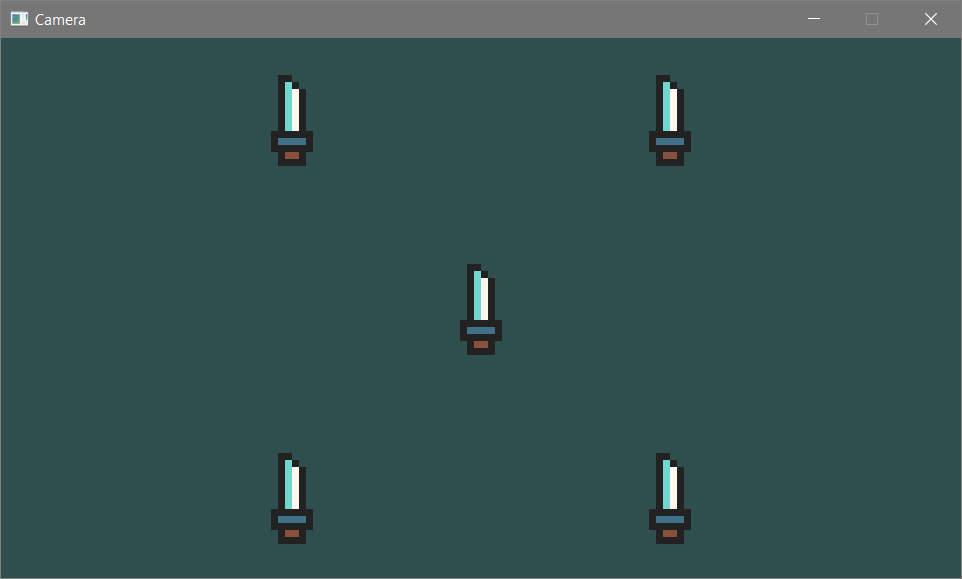
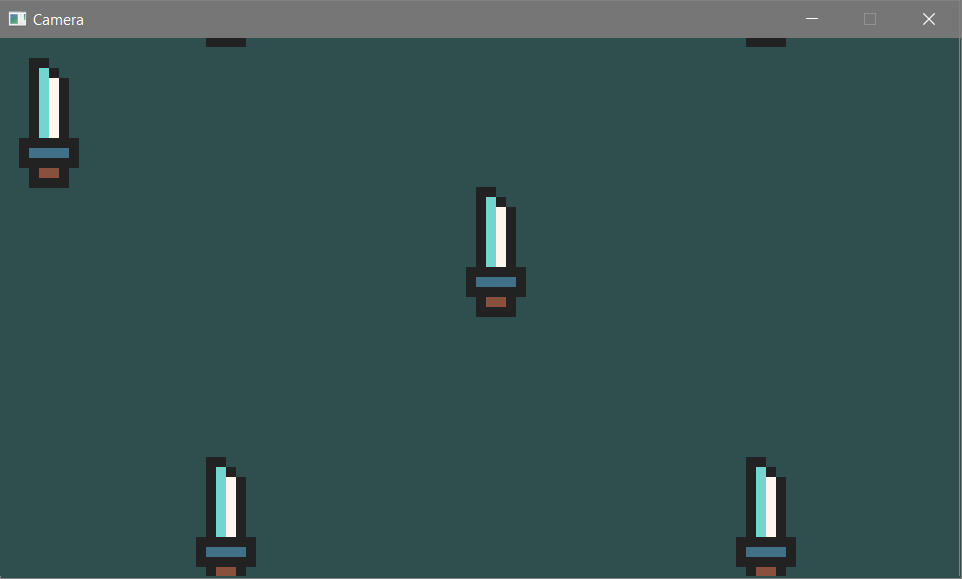
implemented line3d

diff --git a/viva5/viva_impl.h b/viva5/viva_impl.h
@@ -263,6 +263,23 @@ namespace vi::math
         assert(false);
         return 0;
     }
+
+    float calcAngle(float P1X, float P1Y, float P2X, float P2Y,
+        float P3X, float P3Y) {
+
+        float numerator = P2Y * (P1X - P3X) + P1Y * (P3X - P2X) + P3Y * (P2X - P1X);
+        float denominator = (P2X - P1X) * (P1X - P3X) + (P2Y - P1Y) * (P1Y - P3Y);
+        float ratio = numerator / denominator;
+
+        float angleRad = atanf(ratio);
+        float angleDeg = (angleRad * 180) / PI;
+
+        if (angleDeg < 0) {
+            angleDeg = 180 + angleDeg;
+        }
+
+        return angleDeg;
+    }
 }
 
 namespace vi::system
@@ -499,7 +516,7 @@ float4 main(VS_OUTPUT input) : SV_TARGET
     {
         discard;
         return float4(0,0,0,0);
-    }
+}
     else if(notexture)
     {
         return float4(input.Col.rgba);
@@ -693,7 +710,11 @@ struct VS_OUTPUT
     uint4 data: COLOR2;
 };
 
-float4x4 calcWorldViewProj()
+float4x4 calcWorldViewProj(bool transform)
+{
+    float4x4 worldMat = {1,0,0,0, 0,1,0,0, 0,0,1,1, 0,0,0,1};
+
+    if(transform)
 {
     float cr = cos(w.q1 * 0.5);
     float sr = sin(w.q1 * 0.5);
@@ -726,7 +747,8 @@ float4x4 calcWorldViewProj()
         0,0,0,1
     };
 
-    float4x4 worldMat = mul(locMat, mul(rotMat, scaleMat));
+    worldMat = mul(locMat, mul(rotMat, scaleMat));
+}
     
     float3 eye = {v.eyex, v.eyey, v.eyez};
     float3 at = {v.atx,v.aty,v.atz};
@@ -754,12 +776,27 @@ float4x4 calcWorldViewProj()
     return worldViewProj;
 }
 
-VS_OUTPUT main(VertexInputType data)
-{    
+VS_OUTPUT main(VertexInputType data, uint vid : SV_VertexID)
+{
 	float4 pos = float4(data.pos.x,data.pos.y,data.pos.z,1.0f);
 
 	VS_OUTPUT output;
-    
+
+if(w.data == 16)
+{
+if(vid == 0)
+            pos = float4(w.x,w.y,w.z,1.0f);
+        if(vid == 1)
+            pos = float4(w.q1,w.q2,w.q3,1.0f);
+        if(vid == 2)
+            pos = float4(w.sx,w.sy,w.sz,1.0f);
+        output.Pos = mul(calcWorldViewProj(false),pos);
+        output.Col = float4(w.color.r,w.color.g,w.color.b,1);
+	    output.TexCoord = float2(0,0);
+output.data = uint4(w.data,0,0,0);
+return output;
+}   
+
     if(w.data & 4)
     {
 	    output.Pos = mul(transform,pos);
@@ -774,7 +811,7 @@ VS_OUTPUT main(VertexInputType data)
     }        
     else
     {
-        output.Pos = mul(calcWorldViewProj(),pos);
+        output.Pos = mul(calcWorldViewProj(true),pos);
     }
 
 	output.Col = w.color;
@@ -953,6 +990,71 @@ VS_OUTPUT main(VertexInputType data)
             this->s2.scale = { 1,1 };
             this->s2.uv1 = { 0,0,1,1 };
         }
+    };
+
+    // TODO, this should replace sprite
+    _declspec(align(16))
+        union spriten
+    {
+        struct
+        {
+            vector3 pos;
+            vector2 scale;
+            float rot;
+            vector2 origin;
+            uv uv1;
+            color col;
+            uint flags;
+            texture* t;
+        };
+        struct
+        {
+            float x;
+            float y;
+            float z;
+            // scale x
+            float sx;
+
+            // 16 byte
+
+            // scale y
+            float sy;
+            // angle
+            float rot;
+            // origin x
+            float ox;
+            // origin y
+            float oy;
+
+            // 16 byte
+
+            // uv left
+            float left;
+            // uv top
+            float top;
+            // uv right
+            float right;
+            // uv bottom
+            float bottom;
+
+            // 16 byte
+
+            float r;
+            float g;
+            float b;
+            float a;
+
+            // 16 byte
+            // some extra settings
+            uint nodraw : 1;
+            /// <summary>
+            /// no need to set manually, set to true if no texture on sprite
+            /// </summary>
+            uint notexture : 1;
+            uint padding : 30;
+
+            texture* t;
+        };
     };
 
     struct dynamic
@@ -1219,6 +1321,21 @@ VS_OUTPUT main(VertexInputType data)
         color color;
     };
 
+    _declspec(align(16))
+    struct line3d
+    {
+        vector3 p1;
+        float pad1;
+
+        vector3 p2;
+        float pad2;
+
+        float pad3[3];
+        uint data;
+
+        color color;
+    };
+
     struct mesh
     {
         vertex* v;
@@ -1238,10 +1355,13 @@ VS_OUTPUT main(VertexInputType data)
 
         vector3 pos;
         float pad1;
+
         vector3 rot;
         float pad2;
+
         vector3 sca;
         uint data;
+
         color color;
         uint pad3;
     };
@@ -1777,7 +1897,7 @@ VS_OUTPUT main(VertexInputType data)
             if (s->s1.t) this->context->PSSetShaderResources(0, 1, &s->s1.t->shaderResource);
             s->s1.notexture = !s->s1.t;
             this->context->UpdateSubresource(this->cbufferVS, 0, NULL, s, 0, 0);
-            this->context->UpdateSubresource(this->cbufferPS, 0, 0, &s->s2.flags, 0, 0);            
+            this->context->UpdateSubresource(this->cbufferPS, 0, 0, &s->s2.flags, 0, 0);
             this->context->Draw(6, 0);            
         }
 
@@ -1823,16 +1943,19 @@ VS_OUTPUT main(VertexInputType data)
                 this->context->VSSetConstantBuffers(2, 1, &this->transform);
             }
 
-            if (m->t)
+            if (m->t)            
                 this->context->PSSetShaderResources(0, 1, &m->t->shaderResource);
 
-            this->context->UpdateSubresource(this->world, 0, NULL, &m->pos, 0, 0);
+            int psdata[] = { !m->t,0,0,0 };
+            this->context->UpdateSubresource(this->cbufferPS, 0, 0, psdata, 0, 0);
 
             if (transform)
             {
                 m->data |= APPLY_TRANSFORM;
                 this->context->UpdateSubresource(this->transform, 0, NULL, transform, 0, 0);
             }
+
+            this->context->UpdateSubresource(this->world, 0, NULL, &m->pos, 0, 0);
 
             if (m->indexBuffer)
             {
@@ -1868,10 +1991,15 @@ VS_OUTPUT main(VertexInputType data)
                 this->drawingSprites = false;
                 this->context->VSSetShader(this->defaultMeshVS, 0, 0);
                 this->context->VSSetConstantBuffers(0, 1, &this->world);
+                this->context->VSSetConstantBuffers(1, 1, &this->view);
+                this->context->VSSetConstantBuffers(2, 1, &this->transform);
             }
 
             if (m->t)
                 this->context->PSSetShaderResources(0, 1, &m->t->shaderResource);
+
+            int psdata[] = { !m->t,0,0,0 };
+            this->context->UpdateSubresource(this->cbufferPS, 0, 0, psdata, 0, 0);
 
             m->data |= 8;
             this->context->UpdateSubresource(this->world, 0, NULL, &m->pos, 0, 0);
@@ -1880,6 +2008,29 @@ VS_OUTPUT main(VertexInputType data)
             UINT offset = 0;
             this->context->IASetVertexBuffers(0, 1, &this->dynamicVertexBuffer, &stride, &offset);
             this->context->Draw(vertexCount, 0);
+        }
+
+        void drawLine3d(line3d* m)
+        {
+            UINT stride = sizeof(vertex);
+            UINT offset = 0;
+
+            if (this->drawingSprites)
+            {
+                this->drawingSprites = false;
+                this->context->VSSetShader(this->defaultMeshVS, 0, 0);
+                this->context->VSSetConstantBuffers(0, 1, &this->world);
+                this->context->VSSetConstantBuffers(1, 1, &this->view);
+                this->context->VSSetConstantBuffers(2, 1, &this->transform);
+            }
+
+            m->data = 16;
+            this->context->UpdateSubresource(this->world, 0, NULL, m, 0, 0);
+
+            int psdata[] = { 1,0,0,0 };
+            this->context->UpdateSubresource(this->cbufferPS, 0, 0, psdata, 0, 0);
+
+            this->context->Draw(3, 0);
         }
 
         void endScene()

diff --git a/viva5/test.cpp b/viva5/test.cpp
@@ -1248,6 +1248,7 @@ VS_OUTPUT main(uint vid : SV_VertexID)
     // various mesh rendering options
     void mesh()
     {
+        printf("BROKEN! drawMeshDynamic doesnt rendern\n");
         vi::system::windowInfo winfo = {};
         winfo.width = 500;
         winfo.height = 500;
@@ -1338,8 +1339,21 @@ VS_OUTPUT main(uint vid : SV_VertexID)
         m[0].data = 2;
         m[1].color = { 1,0,0 };
 
+        vi::gl::line3d line = {};
+        line.p1 = { 10,0,0 };
+        line.p2 = { -10,0,0 };
+        line.color = { 1,0,0,1 };
+        vi::gl::line3d line2 = {};
+        line2.p1 = { 0,10,0 };
+        line2.p2 = { 0,-10,0 };
+        line2.color = { 0,1,0,1 };
+        vi::gl::line3d line3 = {};
+        line3.p1 = { 0,0,10 };
+        line3.p2 = { 0,0,-10 };
+        line3.color = { 0,0,1,1 };
+
         vi::input::keyboard k;
-        k.init();        
+        k.init();
 
         while (wnd.update())
         {
@@ -1380,7 +1394,14 @@ VS_OUTPUT main(uint vid : SV_VertexID)
 
             for (uint i = 1; i < meshCount; i++)
                 g.drawMesh(m + i);
+
+            g.setWireframe();
+            g.drawLine3d(&line);
+            g.drawLine3d(&line2);
+            g.drawLine3d(&line3);
+            g.setSolid();
             
+            // TODO this broke
             g.drawMeshDynamic(&dynamicMesh, 3);
 
             g.endScene();
@@ -1486,6 +1507,7 @@ VS_OUTPUT main(uint vid : SV_VertexID)
 
     void blendState()
     {
+        printf("BROKEN ! water texture missing?\n");
         vi::system::windowInfo winfo = {};
         winfo.width = 500;
         winfo.height = 500;
